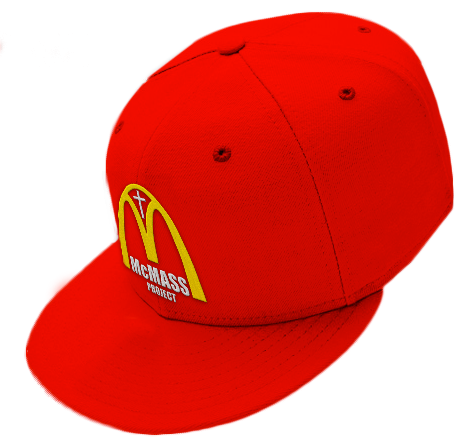
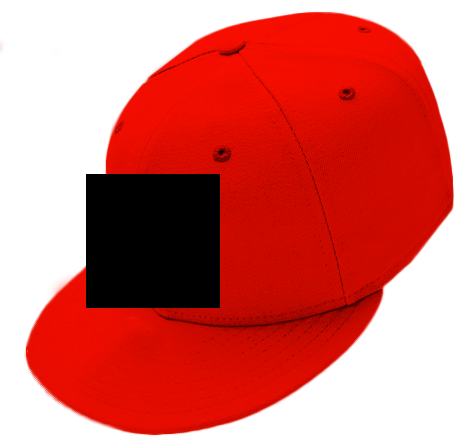
censored version

Changed region(s): [[0.1776, 0.3798, 0.4736, 0.7011]]

diff --git a/public/css/style.css b/public/css/style.css
@@ -226,6 +226,9 @@ nav.stick {
 .infographic {
     width: 100%;
 }
+.problem-disclaimer {
+    font-size: 1.4em;
+}
 
 .different {
     position: relative;
@@ -494,6 +497,9 @@ nav.stick {
 
 .social .hellovelocity {
     width: 100%;
+    text-align: center; 
+}
+.social .disclaimer {
     text-align: center; 
 }
 
